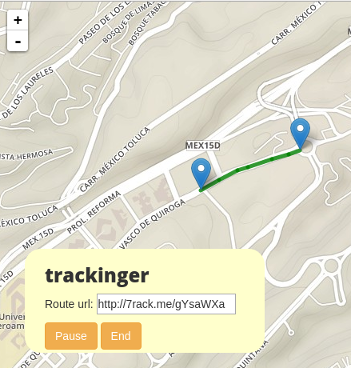
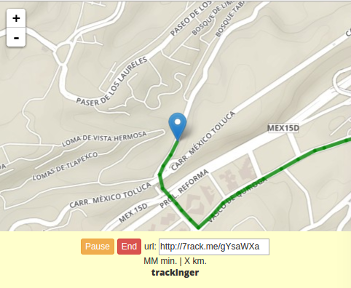
readme

diff --git a/public/tracked.htm b/public/tracked.htm
@@ -18,9 +18,10 @@
       <div id="map"></div>
       <footer class="footer">
          <div class="container centered">
-            <button button type="button" class="btn btn-warning inline btn-sm">Pause</button>
-            <button button type="button" class="btn btn-danger inline btn-sm">End</button>
-            <p class="texti inline">Route url: <input value="http://7rack.me/gYsaWXa" class="input-small" size=""/></p>   
+            <button button type="button" class="btn btn-warning inline btn-xs">Pause</button>
+            <button button type="button" class="btn btn-danger inline btn-xs">End</button>
+            <p class="texti inline">url: <input value="http://7rack.me/gYsaWXa" class="input-small"/></p>
+            <p class="texti">MM min. | X km. </p>     
          </div>
         <h5 class="trackinger texti">trackinger</h5>  
       </footer>

diff --git a/public/css/style.css b/public/css/style.css
@@ -22,7 +22,7 @@
         #overlay-tracker {
       position:absolute;
       width: 150px;
-      height: 60px;
+      height: 100px;
       bottom: 25px;
       left: 25px;
       background-color:#FFFFCC;
@@ -44,6 +44,10 @@ text-align: center;
 font-size: 8x;
 }
 
+.left {
+text-align: left;
+
+}
 .form-signin-heading {
 text-align: center;
 margin-bottom: 20px;
@@ -64,10 +68,18 @@ div.inline { display: inline }
 .inline { display: inline }
 
 .centered {
-    width: 50%;
-    margin: 0 auto;
+text-align: center;
+    left: 0;
+    right: 0;
+    margin-left: auto;
+    margin-right: auto;
 }
 
 .container.centered {
   margin-bottom: -10px;
+}
+
+h5.trackinger {
+      margin-top: -10px;
+
 }

diff --git a/public/tracker.htm b/public/tracker.htm
@@ -19,7 +19,9 @@
     <div id="overlay-tracker">
       <div class="container-overlay">
       <h4 class="trackinger">trackinger</h4>
-      <p class="texti">Start: dd/mm/yyyy 00:00</p>
+      <p class="texti left">Start: dd/mm/yyyy 00:00</br>
+      Time: mm minutes</br>
+      Distance: km kilometers</br>
       </div>
     </div>
     <script src="./js/leaflet.js"></script>

diff --git a/public/js/controllers.js b/public/js/controllers.js
@@ -1,0 +1,8 @@
+function updateLocation() {
+}
+
+function startRoute() {
+}
+
+function endRoute() {
+}

diff --git a/README.md b/README.md
@@ -2,11 +2,11 @@
 
 Publicly share routes with real time display in a map
 
-![Share and PIN](https://raw.githubusercontent.com/ivansabik/trackinger/master/doc/screenshot.png)
+![Share and secure with PIN](https://raw.githubusercontent.com/ivansabik/trackinger/master/doc/screenshot.png)
 
-![Track route](https://raw.githubusercontent.com/ivansabik/trackinger/master/doc/screenshot2.png)
+![Start route](https://raw.githubusercontent.com/ivansabik/trackinger/master/doc/screenshot2.png)
 
-![Monitor route](https://raw.githubusercontent.com/ivansabik/trackinger/master/doc/monitor-route.png)
+![Track route](https://raw.githubusercontent.com/ivansabik/trackinger/master/doc/screenshot3.png)
 
 
 ### Test route
